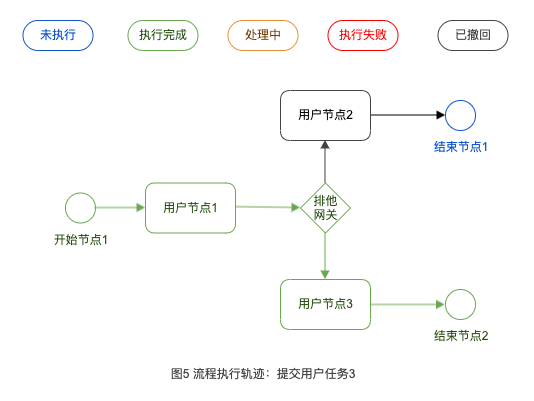
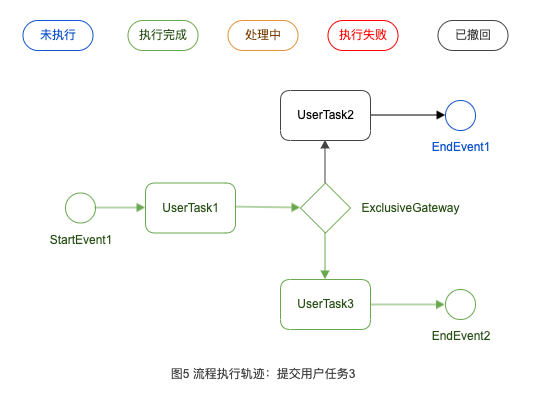
fix information 3

diff --git a/README.md b/README.md
@@ -37,22 +37,25 @@ Turbo是Didi公司开发的轻量级的Java实现的流程引擎
 ##### 3.1.1 事件节点 (EventNode)
 
 例如：
-* StartEvent：标识流程的开始；
-* EndEvent：标识流程的结束；
+* 开始节点 (StartEvent)：标识流程的开始
+* 结束节点 (EndEvent)：标识流程的结束
 
 ##### 3.1.2 活动节点 (ActivityNode)
 
 例如：
-* 任务(Task)：需要处理的节点，例如：
-    * 用户任务节点(UserTask)：使用方执行任务的节点，比如需要用户提交信息；
-    * 系统任务节点(ServiceTask)：系统内部自行执行任务的节点；
-* 子流程(SubProcess)；将流程作为另一个流程的节点来处理；
+* 任务 (Task)：需要处理的节点，例如：
+    * 用户任务节点 (UserTask)：使用方执行任务的节点，比如需要用户提交信息；
+    * 系统任务节点 (ServiceTask)：系统内部自行执行任务的节点；
+* 子流程 (SubProcess)；将流程作为另一个流程的节点来处理；
 
-##### 3.1.3 网关节点(Gateway)
+##### 3.1.3 网关节点 (Gateway)
 
-与SequenceFlow配合使用，用于描述SequenceFlow的执行策略，例如：ExclusiveGateway：排他网关，同一时刻的同一个实例中，根据指定输入，有且只有一条路径(SequenceFlow)被命中。
+与SequenceFlow配合使用，用于描述SequenceFlow的执行策略
 
-#### 3.2 顺序流（SequenceFlow）
+例如：
+* 排他网关 (ExclusiveGateway)：同一时刻的同一个实例中，根据指定输入，有且只有一条路径(SequenceFlow)被命中。
+
+#### 3.2 顺序流 (SequenceFlow)
 
 记录节点之间的执行顺序，可以配置执行的条件conditions（比如用户点击了“同意”作为输入），conditions只有在与网关节点Gateway配合使用时生效，由Gateway决定conditions的执行策略。
 
